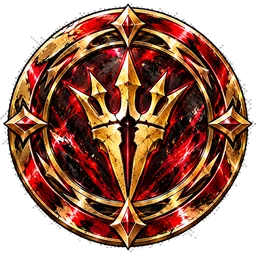
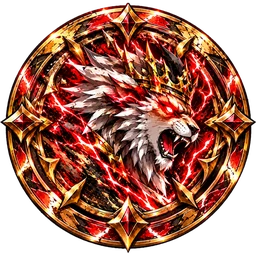
MYTHCLASH: コインの表を企画者の新しい絵（王冠のライオン）に。前の絵は unused/
Claude-Session: https://claude.ai/code/session_01MXithgTc5umkveoyZShZHQ

diff --git a/docs/MYTHCLASH.md b/docs/MYTHCLASH.md
@@ -154,6 +154,7 @@
 ### コイントスのコインの表と裏（2026-10-27）【確定】
 - 企画者の絵（赤と金の三つ又の紋章）→ `design/mythclash/coin_front.png`。まわりのチェック柄を消して切り抜く（`make_coin.py` → `public/assets/mythclash/coin_front.webp`）。
 - コイントスで「表」の面にこの絵を使う。
+- 2026-10-28：表を企画者の新しい絵（王冠のライオン）に差しかえた。前の絵（三つ又）は `design/mythclash/unused/`。
 - 裏も企画者の絵（赤と金の十字の星。もとから背景がとうめい）→ `design/mythclash/coin_back.png` → `coin_back.webp`。表も裏も企画者の絵になった。
 
 ### カードの絵（2026-10-27）【確定】

diff --git a/docs/VISION.md b/docs/VISION.md
@@ -201,3 +201,4 @@
 - 2026-10-27：MYTHCLASH のコイントスのコインの裏の絵も入れた（表・裏とも企画者の絵）
 - 2026-10-28：MYTHCLASH BLOOD TOWER で倒したことのある相手は、階の画面で使ってくるカードを見せる（企画者）
 - 2026-10-28：MYTHCLASH 対戦中の相手の特性は、発動するまで「？？？」（特性があるかどうかも見せない）
+- 2026-10-28：MYTHCLASH のコインの表を、王冠のライオンの絵に差しかえた
